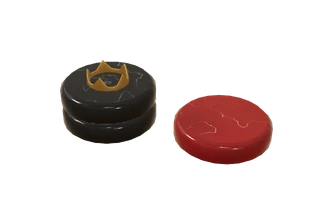
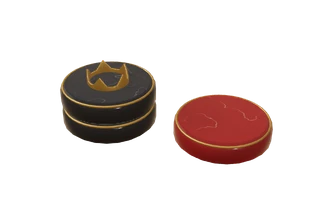
チェッカー3D：ルール説明の光るマスが奥の段で欠ける問題を修正、黒の大理石駒を少し明るくし真鍮の縁取り（黒マスで見やすく）、投了・引き分けの確認ボックスを白ベースに（全ゲームの大百科表示）
Claude-Session: https://claude.ai/code/session_01EiWRAXXs2Dq9W8exsfF5qf

diff --git a/atlas/models/checkers.js b/atlas/models/checkers.js
@@ -170,9 +170,9 @@
     tort: ['tort', { seed: 71 }],
     brass: ['brass', { seed: 83 }],
     // the marble discs' caps: bolder veins (a piece shows only a little of the sheet)
-    neroC: ['marble', { base: '#151517', vein: '#ece8e0', vein2: '#8a857c', cloud: '#26262a', seed: 17, s: .9, vw: .07, amt: .95, grain: 6 }],
-    calaC: ['marble', { base: '#f3f0ea', vein: '#7d766c', vein2: '#a99f92', cloud: '#e4dfd6', seed: 19, s: .9, vw: .06, amt: .9, grain: 5 }],
-    rossoC: ['marble', { base: '#9a2219', vein: '#f6e8e0', vein2: '#d07a6a', cloud: '#6a120c', seed: 23, s: .9, vw: .07, amt: .95, grain: 7 }],
+    neroC: ['marble', { base: '#2a2a2e', vein: '#d8d3ca', vein2: '#3a3a3e', cloud: '#38383d', seed: 17, s: .7, vw: .05, amt: .75, grain: 5 }],
+    calaC: ['marble', { base: '#f3f0ea', vein: '#8d867c', vein2: '#e8e3da', cloud: '#e4dfd6', seed: 19, s: .7, vw: .05, amt: .8, grain: 4 }],
+    rossoC: ['marble', { base: '#9a2219', vein: '#f0ddd4', vein2: '#a32a20', cloud: '#7a1810', seed: 23, s: .7, vw: .05, amt: .8, grain: 5 }],
     mahog: ['wood', { a: '#8e3a22', b: '#4a160c', seed: 19, rings: 22, ringAmt: .35, warp: 1.8, dir: 1, curl: .08, curlF: 30 }],
     green: ['leather', { a: '#1f4a35', b: '#0d2a1d', seed: 17 }],
     cream: ['leather', { a: '#efe3c6', b: '#cbb48a', seed: 23 }],
@@ -324,12 +324,13 @@
         for (let r = 0; r < 8; r++) for (let f = 0; f < 8; f++) if ((r + f) % 2 === 0) q.fillRect(o + f * k, o + r * k, k, k);
         const mt = new TT.CanvasTexture(mc); m.metalnessMap = m.roughnessMap = mt; m.metalness = 1; m.roughness = 1;
       }
-      Object.assign(m, { stencilWrite: true, stencilRef: 2, stencilFunc: TT.AlwaysStencilFunc, stencilZPass: TT.ReplaceStencilOp, polygonOffset: true, polygonOffsetFactor: -2, polygonOffsetUnits: -6 }); return m; });   // (polygon offset: in front of the core's top)
+      Object.assign(m, { stencilWrite: true, stencilRef: 2, stencilFunc: TT.AlwaysStencilFunc, stencilZPass: TT.ReplaceStencilOp }); return m; });   // (no polygon offset: it pushed the far squares in front of the marks drawn just above the field — the glow
+                       // was cut off on the far rows, 2026-11-14; the core's top sits a little lower instead)
     const F = FRAMES[L.frame]();
     // the core: a slab under the whole board
     const coreM = F.core != null ? mat('core' + F.core, () => phys({ color: F.core, roughness: .3, clearcoat: .6, clearcoatRoughness: .1 })) : F.m;
     const bt = look === 'lacquer' ? mat('burlTop', () => { const t = new TT.CanvasTexture(tile('burl', SZ(768))); t.encoding = TT.sRGBEncoding; t.anisotropy = 4; return phys({ map: t, color: 0x4a4a50, roughness: .16, clearcoat: 1, clearcoatRoughness: .04 }); }) : coreM;
-    const core = new TT.Mesh(new TT.BoxGeometry(OW - .02, HF, OW - .02), [coreM, coreM, bt, coreM, coreM, coreM]); core.position.y = HF / 2; core.castShadow = core.receiveShadow = true; base.add(core);
+    const core = new TT.Mesh(new TT.BoxGeometry(OW - .02, HF - .006, OW - .02), [coreM, coreM, bt, coreM, coreM, coreM]); core.position.y = (HF - .006) / 2; core.castShadow = core.receiveShadow = true; base.add(core);
     const A = OW / 2, fr = new TT.Mesh(sweep(A, profileOf(F.prof)), F.m); fr.castShadow = fr.receiveShadow = true; base.add(fr);
     if (F.bead) {   // a fine half-round bead along the frame's inner edge (brass / holly / gilt)
       const n = LO() ? 3 : 5, r = .022, x0 = IW - .045, bp = [[x0 - r, H2 - .001]]; for (let i = 1; i < n; i++) { const a = Math.PI - i / n * Math.PI; bp.push([x0 + Math.cos(a) * r, H2 + Math.sin(a) * r]); } bp.push([x0 + r, H2 - .001]);
@@ -389,15 +390,16 @@
   }
   function capGeo() { if (geos.cap) return geos.cap; const TT = T(), g = new TT.CircleGeometry(R - .045, LO() ? 16 : 24); g.rotateX(-Math.PI / 2); if (X.share) X.share(g); return (geos.cap = g); }
   function ringGeo() { if (geos.ring) return geos.ring; const TT = T(), g = new TT.RingGeometry(R * .5, R * .62, LO() ? 16 : 24); g.rotateX(-Math.PI / 2); if (X.share) X.share(g); return (geos.ring = g); }
+  function rimGeo() { if (geos.rim) return geos.rim; const TT = T(), g = new TT.TorusGeometry(R - .021, .0095, 6, LO() ? 24 : 40); g.rotateX(Math.PI / 2); if (X.share) X.share(g); return (geos.rim = g); }
   function bandGeo() { if (geos.band) return geos.band; const TT = T(), g = new TT.TorusGeometry(R + .002, .011, 5, LO() ? 18 : 26); g.rotateX(Math.PI / 2); if (X.share) X.share(g); return (geos.band = g); }
   // each set: [Black's side, White's side] materials, the crown's metal, the colour of the mirror image
   const PM = {
     metal: { g: () => phys({ color: 0xf0c25e, metalness: 1, roughness: .2, envMapIntensity: 1.4 }), w: () => phys({ color: 0xe6e8ec, metalness: 1, roughness: .16, envMapIntensity: 1.4 }), ref: [0xb88a3a, 0xa9adb3] },
     ebony: { g: () => phys({ color: 0x1c1512, roughness: .32, clearcoat: .7, clearcoatRoughness: .12 }), w: () => phys({ color: 0xeee2c6, roughness: .36, clearcoat: .5, clearcoatRoughness: .15 }), ref: [0x2a201a, 0xcfc2a4], inlay: true, crown: 0xd8b064 },
-    stone: { g: () => phys({ color: 0x1b1b1d, roughness: .12, clearcoat: 1, clearcoatRoughness: .04 }), w: () => phys({ color: 0xece8e1, roughness: .12, clearcoat: 1, clearcoatRoughness: .04 }), ref: [0x232325, 0xd4d0c8], cap: ['neroC', 'calaC'], crown: 0xd8b064 },
-    rbmarble: { g: () => phys({ color: 0x1b1b1d, roughness: .12, clearcoat: 1, clearcoatRoughness: .04 }), w: () => phys({ color: 0x8e1f19, roughness: .12, clearcoat: 1, clearcoatRoughness: .04 }), ref: [0x232325, 0x6e1a14], cap: ['neroC', 'rossoC'], crown: 0xd8b064 },
+    stone: { g: () => phys({ color: 0x26262a, roughness: .12, clearcoat: 1, clearcoatRoughness: .04 }), w: () => phys({ color: 0xece8e1, roughness: .12, clearcoat: 1, clearcoatRoughness: .04 }), ref: [0x232325, 0xd4d0c8], rim: true, cap: ['neroC', 'calaC'], crown: 0xd8b064 },
+    rbmarble: { g: () => phys({ color: 0x26262a, roughness: .12, clearcoat: 1, clearcoatRoughness: .04 }), w: () => phys({ color: 0x8e1f19, roughness: .12, clearcoat: 1, clearcoatRoughness: .04 }), ref: [0x232325, 0x6e1a14], rim: true, cap: ['neroC', 'rossoC'], crown: 0xd8b064 },
     urushi: { g: () => phys({ color: 0x121113, roughness: .16, clearcoat: 1, clearcoatRoughness: .03 }), w: () => phys({ color: 0xb2261c, roughness: .18, clearcoat: 1, clearcoatRoughness: .03 }), ref: [0x1a191b, 0x8a2016], band: true, crown: 0xe6bd62 },
-    rmarble: { g: () => phys({ color: 0x8e1f19, roughness: .12, clearcoat: 1, clearcoatRoughness: .04 }), w: () => phys({ color: 0xece8e1, roughness: .12, clearcoat: 1, clearcoatRoughness: .04 }), ref: [0x6e1a14, 0xd4d0c8], cap: ['rossoC', 'calaC'], crown: 0xd8b064 },
+    rmarble: { g: () => phys({ color: 0x8e1f19, roughness: .12, clearcoat: 1, clearcoatRoughness: .04 }), w: () => phys({ color: 0xece8e1, roughness: .12, clearcoat: 1, clearcoatRoughness: .04 }), ref: [0x6e1a14, 0xd4d0c8], rim: true, cap: ['rossoC', 'calaC'], crown: 0xd8b064 },
   };
   const setOf = s => SETS.includes(s) ? s : pcSet();
   const pMat = (set, col) => mat('p' + set + col, PM[set][col]);
@@ -417,6 +419,7 @@
       if (D.cap) { const c = add(capGeo(), capMat(set, col), y0 + PH + .001); c.rotation.y = k * 1.3 + (col === 'g' ? .4 : 2.1); c.castShadow = false; }
       if (D.inlay && k === n - 1) { const r = add(ringGeo(), pMat(set, col === 'g' ? 'w' : 'g'), y0 + PH - .0155); r.castShadow = false; }
       if (D.band) { const b = add(bandGeo(), metalMat('gold', 0xe6bd62, .2), y0 + PH * .5); b.castShadow = false; }
+      if (D.rim) { const b = add(rimGeo(), metalMat('brass', 0xd8b064, .22), y0 + PH - .021); b.castShadow = false; }   // (a brass ring round the top's edge: the black marble discs read on black squares, 2026-11-14)
     }
     if (king) add(crownGeo(), D.crown ? metalMat('crown' + D.crown, D.crown, .2) : m, n * (PH + .004) - .03 + (set === 'urushi' ? .02 : 0));
     g.userData = { col, king: !!king, h: n * PH, set };

diff --git a/atlas/lazy.js b/atlas/lazy.js
@@ -5,7 +5,7 @@
      AtlasLazy.has3D(id) / hasPlay(id) / hasRules(id) — known before loading; AtlasLazy.loaded(id) */
 (function () {
 'use strict';
-const G = {"reversi": ["games/reversi.js?v=53", "rules/reversi.js?v=14"], "shogi": ["models/shogi.js?v=101", "games/shogi-play.js?v=43", "games/shogi.js?v=16", "rules/shogi.js?v=21"], "chess": ["models/chess.js?v=16", "games/chess.js?v=18", "rules/chess.js?v=7"], "backgammon": ["models/backgammon.js?v=121", "games/backgammon.js?v=23", "rules/backgammon.js?v=11"], "gomoku": ["models/goban.js?v=15", "games/gomoku.js?v=15", "rules/gomoku.js?v=9"], "go": ["models/goban.js?v=15", "games/go.js?v=9", "rules/go.js?v=7"], "hex": ["models/goban.js?v=15", "models/hex.js?v=2", "games/hex.js?v=6", "rules/hex.js?v=6"], "tafl": ["games/tafl.js?v=15", "rules/tafl.js?v=7"], "xiangqi": ["models/xiangqi.js?v=4", "games/xiangqi.js?v=14", "rules/xiangqi.js?v=6"], "janggi": ["models/xiangqi.js?v=4", "models/janggi.js?v=3", "games/janggi.js?v=6", "rules/janggi.js?v=2"], "checkers": ["models/checkers.js?v=21", "games/checkers.js?v=11", "rules/checkers.js?v=6"], "ugolki": ["models/checkers.js?v=21", "models/ugolki.js?v=4", "games/ugolki.js?v=11", "rules/ugolki.js?v=8"], "morris": ["models/morris.js?v=7", "games/morris-pieces.js?v=2", "games/morris.js?v=8", "rules/morris.js?v=6"], "connect4": ["models/connect4.js?v=5", "games/connect4-tiles.js?v=1", "games/connect4.js?v=5", "rules/connect4.js?v=3"], "mancala": ["models/mancala.js?v=5", "games/mancala.js?v=10", "rules/mancala.js?v=4"], "dots": ["models/dots.js?v=4", "games/dots.js?v=9", "rules/dots.js?v=3"], "ur": ["models/ur-dice.js?v=2", "models/ur.js?v=5", "games/ur-kit.js?v=15", "games/ur.js?v=11", "rules/ur.js?v=16"], "fanorona": ["models/fanorona.js?v=4", "games/fanorona.js?v=6", "rules/fanorona.js?v=8"], "konane": ["models/konane.js?v=7", "games/konane.js?v=13", "rules/konane.js?v=5"], "amazons": ["models/amazons.js?v=7", "games/amazons.js?v=11", "rules/amazons.js?v=6"], "senet": ["models/ur-dice.js?v=2", "models/senet.js?v=10", "games/senet-kit.js?v=5", "games/senet.js?v=16", "rules/senet.js?v=8"], "agon": ["models/agon.js?v=4", "games/agon.js?v=12", "rules/agon.js?v=5"], "alquerque": ["models/alquerque.js?v=3", "rules/alquerque.js?v=6"], "ludo": ["../ludo/engine.js?v=3", "../ludo/house.js?v=7", "../ludo/board2d.js?v=7", "../ludo/board-art.js?v=3", "models/ludo.js?v=10", "games/ludo.js?v=28", "rules/ludo.js?v=3"], "carrom": ["../carrom/engine.js?v=7", "models/carrom.js?v=18", "games/carrom.js?v=38", "rules/carrom.js?v=8"], "crokinole": ["../carrom/engine.js?v=7", "games/carrom.js?v=38", "../crokinole/engine.js?v=4", "models/crokinole.js?v=13", "games/crokinole.js?v=15", "rules/crokinole.js?v=4"], "hockey": ["../hockey/engine.js?v=15", "models/hockey.js?v=8", "games/hockey.js?v=30", "rules/hockey.js?v=7"], "shanghai": ["games/shanghai-core.js?v=2", "games/shanghai-zodiac.js?v=6", "games/shanghai-i18n.js?v=12", "models/shanghai.js?v=18", "games/shanghai.js?v=28", "rules/shanghai-i18n.js?v=1", "rules/shanghai.js?v=1"], "peg": ["../peg/engine.js?v=2", "../peg/i18n.js?v=11", "models/peg.js?v=22", "games/peg.js?v=16", "rules/peg.js?v=4"]};
+const G = {"reversi": ["games/reversi.js?v=53", "rules/reversi.js?v=14"], "shogi": ["models/shogi.js?v=101", "games/shogi-play.js?v=43", "games/shogi.js?v=16", "rules/shogi.js?v=21"], "chess": ["models/chess.js?v=16", "games/chess.js?v=18", "rules/chess.js?v=7"], "backgammon": ["models/backgammon.js?v=121", "games/backgammon.js?v=23", "rules/backgammon.js?v=11"], "gomoku": ["models/goban.js?v=15", "games/gomoku.js?v=15", "rules/gomoku.js?v=9"], "go": ["models/goban.js?v=15", "games/go.js?v=9", "rules/go.js?v=7"], "hex": ["models/goban.js?v=15", "models/hex.js?v=2", "games/hex.js?v=6", "rules/hex.js?v=6"], "tafl": ["games/tafl.js?v=15", "rules/tafl.js?v=7"], "xiangqi": ["models/xiangqi.js?v=4", "games/xiangqi.js?v=14", "rules/xiangqi.js?v=6"], "janggi": ["models/xiangqi.js?v=4", "models/janggi.js?v=3", "games/janggi.js?v=6", "rules/janggi.js?v=2"], "checkers": ["models/checkers.js?v=22", "games/checkers.js?v=11", "rules/checkers.js?v=6"], "ugolki": ["models/checkers.js?v=22", "models/ugolki.js?v=4", "games/ugolki.js?v=11", "rules/ugolki.js?v=8"], "morris": ["models/morris.js?v=7", "games/morris-pieces.js?v=2", "games/morris.js?v=8", "rules/morris.js?v=6"], "connect4": ["models/connect4.js?v=5", "games/connect4-tiles.js?v=1", "games/connect4.js?v=5", "rules/connect4.js?v=3"], "mancala": ["models/mancala.js?v=5", "games/mancala.js?v=10", "rules/mancala.js?v=4"], "dots": ["models/dots.js?v=4", "games/dots.js?v=9", "rules/dots.js?v=3"], "ur": ["models/ur-dice.js?v=2", "models/ur.js?v=5", "games/ur-kit.js?v=15", "games/ur.js?v=11", "rules/ur.js?v=16"], "fanorona": ["models/fanorona.js?v=4", "games/fanorona.js?v=6", "rules/fanorona.js?v=8"], "konane": ["models/konane.js?v=7", "games/konane.js?v=13", "rules/konane.js?v=5"], "amazons": ["models/amazons.js?v=7", "games/amazons.js?v=11", "rules/amazons.js?v=6"], "senet": ["models/ur-dice.js?v=2", "models/senet.js?v=10", "games/senet-kit.js?v=5", "games/senet.js?v=16", "rules/senet.js?v=8"], "agon": ["models/agon.js?v=4", "games/agon.js?v=12", "rules/agon.js?v=5"], "alquerque": ["models/alquerque.js?v=3", "rules/alquerque.js?v=6"], "ludo": ["../ludo/engine.js?v=3", "../ludo/house.js?v=7", "../ludo/board2d.js?v=7", "../ludo/board-art.js?v=3", "models/ludo.js?v=10", "games/ludo.js?v=28", "rules/ludo.js?v=3"], "carrom": ["../carrom/engine.js?v=7", "models/carrom.js?v=18", "games/carrom.js?v=38", "rules/carrom.js?v=8"], "crokinole": ["../carrom/engine.js?v=7", "games/carrom.js?v=38", "../crokinole/engine.js?v=4", "models/crokinole.js?v=13", "games/crokinole.js?v=15", "rules/crokinole.js?v=4"], "hockey": ["../hockey/engine.js?v=15", "models/hockey.js?v=8", "games/hockey.js?v=30", "rules/hockey.js?v=7"], "shanghai": ["games/shanghai-core.js?v=2", "games/shanghai-zodiac.js?v=6", "games/shanghai-i18n.js?v=12", "models/shanghai.js?v=18", "games/shanghai.js?v=28", "rules/shanghai-i18n.js?v=1", "rules/shanghai.js?v=1"], "peg": ["../peg/engine.js?v=2", "../peg/i18n.js?v=11", "models/peg.js?v=22", "games/peg.js?v=16", "rules/peg.js?v=4"]};
 const F = {"reversi": {"t3": true, "play": true, "rules": true}, "shogi": {"t3": true, "play": true, "rules": true}, "chess": {"t3": true, "play": true, "rules": true}, "backgammon": {"t3": true, "play": true, "rules": true}, "gomoku": {"t3": true, "play": true, "rules": true}, "go": {"t3": true, "play": true, "rules": true}, "hex": {"t3": true, "play": true, "rules": true}, "tafl": {"t3": true, "play": true, "rules": true}, "xiangqi": {"t3": true, "play": true, "rules": true}, "janggi": {"t3": true, "play": true, "rules": true}, "checkers": {"t3": true, "play": true, "rules": true}, "ugolki": {"t3": true, "play": true, "rules": true}, "morris": {"t3": true, "play": true, "rules": true}, "connect4": {"t3": true, "play": true, "rules": true}, "mancala": {"t3": true, "play": true, "rules": true}, "dots": {"t3": true, "play": true, "rules": true}, "ur": {"t3": true, "play": true, "rules": true}, "fanorona": {"t3": true, "play": true, "rules": true}, "konane": {"t3": true, "play": true, "rules": true}, "amazons": {"t3": true, "play": true, "rules": true}, "senet": {"t3": true, "play": true, "rules": true}, "agon": {"t3": true, "play": true, "rules": true}, "alquerque": {"t3": true, "play": false, "rules": true}, "ludo": {"t3": true, "play": true, "rules": true}, "carrom": {"t3": true, "play": true, "rules": true}, "crokinole": {"t3": true, "play": true, "rules": true}, "hockey": {"t3": true, "play": true, "rules": true}, "peg": {"t3": true, "play": true, "rules": true}, "shanghai": {"t3": true, "play": true, "rules": true}};
 const done = new Set(), loading = new Map(), ok = new Set();
 function load(src) {

diff --git a/mancala/index.html b/mancala/index.html
@@ -1581,12 +1581,12 @@ html[data-sk=ocean] .seed{box-shadow:0 calc(var(--u) * .025) calc(var(--u) * .04
   if (!/[?&]skin=atlas\b/.test(location.search)) return;
   if (window.__ROTWRAP) { document.documentElement.classList.add('atlas-ready'); if (window.AtlasLoading) AtlasLoading.hide(); return; }   // phone landscape wrapper: the skin runs in the turned page inside
   document.documentElement.classList.add('atlas-skin');
-  const css = document.createElement('link'); css.rel = 'stylesheet'; css.href = '../atlas/skin/skin.css?v=90l83'; document.head.appendChild(css);
+  const css = document.createElement('link'); css.rel = 'stylesheet'; css.href = '../atlas/skin/skin.css?v=91l14'; document.head.appendChild(css);
   const css2 = document.createElement('link'); css2.rel = 'stylesheet'; css2.href = '../atlas/skin/mancala.css?v=19l14'; document.head.appendChild(css2);
   const f = document.createElement('link'); f.rel = 'stylesheet'; f.href = 'https://fonts.googleapis.com/css2?family=RocknRoll+One&family=Zen+Maru+Gothic:wght@500;700;900&family=Fredoka:wght@600;700&display=swap'; document.head.appendChild(f);
   const load = src => new Promise((res, rej) => { const s = document.createElement('script'); s.src = src; s.onload = res; s.onerror = rej; document.body.appendChild(s); });
   if (window.AtlasLoading) { AtlasLoading.show(); setTimeout(() => AtlasLoading.hide(), 12000); }   // safety net
-  (/[?&]three=128\b/.test(location.search) ? load('https://cdnjs.cloudflare.com/ajax/libs/three.js/r128/three.min.js') : load('../atlas/vendor/three-r186.min.js?v=1').then(() => load('../atlas/vendor/three-compat.js?v=15'))).then(() => load('../atlas/img/tex/baked.js?v=2')).then(() => load('../atlas/table3d.js?v=168')).then(() => load('../atlas/tables3d.js?v=121')).then(() => load('../atlas/skin/common.js?v=105')).then(() => load('../atlas/models/mancala.js?v=4l14')).then(() => load('../atlas/skin/mancala.js?v=10l14'))
+  (/[?&]three=128\b/.test(location.search) ? load('https://cdnjs.cloudflare.com/ajax/libs/three.js/r128/three.min.js') : load('../atlas/vendor/three-r186.min.js?v=1').then(() => load('../atlas/vendor/three-compat.js?v=15'))).then(() => load('../atlas/img/tex/baked.js?v=2')).then(() => load('../atlas/table3d.js?v=168')).then(() => load('../atlas/tables3d.js?v=122')).then(() => load('../atlas/skin/common.js?v=105')).then(() => load('../atlas/models/mancala.js?v=4l14')).then(() => load('../atlas/skin/mancala.js?v=10l14'))
     .catch(() => { document.documentElement.classList.remove('atlas-skin'); if (window.AtlasLoading) AtlasLoading.hide(); });
 })();
 </script>

diff --git a/dots/index.html b/dots/index.html
@@ -2295,12 +2295,12 @@ document.querySelector('#rsResume').onclick = () => { document.querySelector('#r
 (function () {
   if (!/[?&]skin=atlas\b/.test(location.search)) return;
   document.documentElement.classList.add('atlas-skin');
-  const css = document.createElement('link'); css.rel = 'stylesheet'; css.href = '../atlas/skin/skin.css?v=90l83'; document.head.appendChild(css);
+  const css = document.createElement('link'); css.rel = 'stylesheet'; css.href = '../atlas/skin/skin.css?v=91l14'; document.head.appendChild(css);
   const css2 = document.createElement('link'); css2.rel = 'stylesheet'; css2.href = '../atlas/skin/dots.css?v=2l14'; document.head.appendChild(css2);
   const f = document.createElement('link'); f.rel = 'stylesheet'; f.href = 'https://fonts.googleapis.com/css2?family=RocknRoll+One&family=Zen+Maru+Gothic:wght@500;700;900&family=Fredoka:wght@600;700&family=Kalam:wght@400;700&family=Zen+Kurenaido&family=Nanum+Pen+Script&family=Long+Cang&family=Aref+Ruqaa:wght@700&display=swap'; document.head.appendChild(f);   // (Kalam … Aref Ruqaa: the handwritten box initials and tally on the notebook page)
   const load = src => new Promise((res, rej) => { const s = document.createElement('script'); s.src = src; s.onload = res; s.onerror = rej; document.body.appendChild(s); });
   if (window.AtlasLoading) { AtlasLoading.show(); setTimeout(() => AtlasLoading.hide(), 12000); }   // safety net
-  (/[?&]three=128\b/.test(location.search) ? load('https://cdnjs.cloudflare.com/ajax/libs/three.js/r128/three.min.js') : load('../atlas/vendor/three-r186.min.js?v=1').then(() => load('../atlas/vendor/three-compat.js?v=15'))).then(() => load('../atlas/img/tex/baked.js?v=2')).then(() => load('../atlas/table3d.js?v=168')).then(() => load('../atlas/tables3d.js?v=121')).then(() => load('../atlas/skin/common.js?v=105')).then(() => load('../atlas/models/dots.js?v=3l14')).then(() => load('../atlas/skin/dots.js?v=7l14'))
+  (/[?&]three=128\b/.test(location.search) ? load('https://cdnjs.cloudflare.com/ajax/libs/three.js/r128/three.min.js') : load('../atlas/vendor/three-r186.min.js?v=1').then(() => load('../atlas/vendor/three-compat.js?v=15'))).then(() => load('../atlas/img/tex/baked.js?v=2')).then(() => load('../atlas/table3d.js?v=168')).then(() => load('../atlas/tables3d.js?v=122')).then(() => load('../atlas/skin/common.js?v=105')).then(() => load('../atlas/models/dots.js?v=3l14')).then(() => load('../atlas/skin/dots.js?v=7l14'))
     .catch(() => { document.documentElement.classList.remove('atlas-skin'); if (window.AtlasLoading) AtlasLoading.hide(); });
 })();
 </script>

diff --git a/reversi/index.html b/reversi/index.html
@@ -5915,13 +5915,13 @@ accRender();
 (function () {
   if (!/[?&]skin=atlas\b/.test(location.search)) return;
   document.documentElement.classList.add('atlas-skin');
-  const css = document.createElement('link'); css.rel = 'stylesheet'; css.href = '../atlas/skin/skin.css?v=90l83'; document.head.appendChild(css);
+  const css = document.createElement('link'); css.rel = 'stylesheet'; css.href = '../atlas/skin/skin.css?v=91l14'; document.head.appendChild(css);
   const f = document.createElement('link'); f.rel = 'stylesheet'; f.href = 'https://fonts.googleapis.com/css2?family=RocknRoll+One&family=Zen+Maru+Gothic:wght@500;700;900&family=Fredoka:wght@600;700&display=swap'; document.head.appendChild(f);
   const load = src => new Promise((res, rej) => { const s = document.createElement('script'); s.src = src; s.onload = res; s.onerror = rej; document.body.appendChild(s); });
   if (window.AtlasLoading) { AtlasLoading.show(); setTimeout(() => AtlasLoading.hide(), 12000); }   // safety net
   // three.js r186 trial (2026-11-13): ?three=186 loads the new version (+ the r128 compatibility layer); otherwise r128 as before
   const T186 = !/[?&]three=128\b/.test(location.search);   // (r186 by default since 2026-11-13; ?three=128 = the old version)
-  (T186 ? load('../atlas/vendor/three-r186.min.js?v=1').then(() => load('../atlas/vendor/three-compat.js?v=15')) : (/[?&]three=128\b/.test(location.search) ? load('https://cdnjs.cloudflare.com/ajax/libs/three.js/r128/three.min.js') : load('../atlas/vendor/three-r186.min.js?v=1').then(() => load('../atlas/vendor/three-compat.js?v=15')))).then(() => load('../atlas/img/tex/baked.js?v=2')).then(() => load('../atlas/table3d.js?v=168')).then(() => load('../atlas/tables3d.js?v=121')).then(() => load('../atlas/skin/common.js?v=105')).then(() => load('../atlas/skin/reversi.js?v=23l15'))
+  (T186 ? load('../atlas/vendor/three-r186.min.js?v=1').then(() => load('../atlas/vendor/three-compat.js?v=15')) : (/[?&]three=128\b/.test(location.search) ? load('https://cdnjs.cloudflare.com/ajax/libs/three.js/r128/three.min.js') : load('../atlas/vendor/three-r186.min.js?v=1').then(() => load('../atlas/vendor/three-compat.js?v=15')))).then(() => load('../atlas/img/tex/baked.js?v=2')).then(() => load('../atlas/table3d.js?v=168')).then(() => load('../atlas/tables3d.js?v=122')).then(() => load('../atlas/skin/common.js?v=105')).then(() => load('../atlas/skin/reversi.js?v=23l15'))
     .catch(() => { document.documentElement.classList.remove('atlas-skin'); if (window.AtlasLoading) AtlasLoading.hide(); });
 })();
 </script>

diff --git a/ur/index.html b/ur/index.html
@@ -1025,11 +1025,11 @@ html:not([lang=ja]):not([lang=zh]):not([lang="zh-TW"]):not([lang=ko]) .result-bi
 (function () {
   if (!/[?&]skin=atlas\b/.test(location.search) || window.__ROTWRAP) return;
   document.documentElement.classList.add('atlas-skin');
-  const css = document.createElement('link'); css.rel = 'stylesheet'; css.href = '../atlas/skin/skin.css?v=90l83'; document.head.appendChild(css);
+  const css = document.createElement('link'); css.rel = 'stylesheet'; css.href = '../atlas/skin/skin.css?v=91l14'; document.head.appendChild(css);
   const f = document.createElement('link'); f.rel = 'stylesheet'; f.href = 'https://fonts.googleapis.com/css2?family=RocknRoll+One&family=Zen+Maru+Gothic:wght@500;700;900&family=Fredoka:wght@600;700&display=swap'; document.head.appendChild(f);
   const load = src => new Promise((res, rej) => { const s = document.createElement('script'); s.src = src; s.onload = res; s.onerror = rej; document.body.appendChild(s); });
   if (window.AtlasLoading) { AtlasLoading.show(); setTimeout(() => AtlasLoading.hide(), 12000); }   // safety net
-  (/[?&]three=128\b/.test(location.search) ? load('https://cdnjs.cloudflare.com/ajax/libs/three.js/r128/three.min.js') : load('../atlas/vendor/three-r186.min.js?v=1').then(() => load('../atlas/vendor/three-compat.js?v=15'))).then(() => load('../atlas/img/tex/baked.js?v=2')).then(() => load('../atlas/table3d.js?v=168')).then(() => load('../atlas/tables3d.js?v=121')).then(() => load('../atlas/skin/common.js?v=105')).then(() => load('../atlas/models/ur-dice.js?v=2l14')).then(() => load('../atlas/models/ur.js?v=5l14')).then(() => load('../atlas/skin/ur.js?v=14l14'))
+  (/[?&]three=128\b/.test(location.search) ? load('https://cdnjs.cloudflare.com/ajax/libs/three.js/r128/three.min.js') : load('../atlas/vendor/three-r186.min.js?v=1').then(() => load('../atlas/vendor/three-compat.js?v=15'))).then(() => load('../atlas/img/tex/baked.js?v=2')).then(() => load('../atlas/table3d.js?v=168')).then(() => load('../atlas/tables3d.js?v=122')).then(() => load('../atlas/skin/common.js?v=105')).then(() => load('../atlas/models/ur-dice.js?v=2l14')).then(() => load('../atlas/models/ur.js?v=5l14')).then(() => load('../atlas/skin/ur.js?v=14l14'))
     .catch(() => { const u = new URL(location.href); u.searchParams.delete('skin'); location.replace(u.href); });   // (the 3D files are missing: the plain 2D page)
 })();
 </script>

diff --git a/connect4/index.html b/connect4/index.html
@@ -3387,11 +3387,11 @@ document.addEventListener('keydown', e => {
 (function () {
   if (!/[?&]skin=atlas\b/.test(location.search)) return;
   document.documentElement.classList.add('atlas-skin');
-  const css = document.createElement('link'); css.rel = 'stylesheet'; css.href = '../atlas/skin/skin.css?v=90l83'; document.head.appendChild(css);
+  const css = document.createElement('link'); css.rel = 'stylesheet'; css.href = '../atlas/skin/skin.css?v=91l14'; document.head.appendChild(css);
   const f = document.createElement('link'); f.rel = 'stylesheet'; f.href = 'https://fonts.googleapis.com/css2?family=RocknRoll+One&family=Zen+Maru+Gothic:wght@500;700;900&family=Fredoka:wght@600;700&display=swap'; document.head.appendChild(f);
   const load = src => new Promise((res, rej) => { const s = document.createElement('script'); s.src = src; s.onload = res; s.onerror = rej; document.body.appendChild(s); });
   if (window.AtlasLoading) { AtlasLoading.show(); setTimeout(() => AtlasLoading.hide(), 12000); }   // safety net
-  (/[?&]three=128\b/.test(location.search) ? load('https://cdnjs.cloudflare.com/ajax/libs/three.js/r128/three.min.js') : load('../atlas/vendor/three-r186.min.js?v=1').then(() => load('../atlas/vendor/three-compat.js?v=15'))).then(() => load('../atlas/img/tex/baked.js?v=2')).then(() => load('../atlas/table3d.js?v=168')).then(() => load('../atlas/tables3d.js?v=121')).then(() => load('../atlas/skin/common.js?v=105')).then(() => load('../atlas/models/connect4.js?v=5l14')).then(() => load('../atlas/games/connect4-tiles.js?v=1l14')).then(() => load('../atlas/skin/connect4.js?v=6l14-aim'))
+  (/[?&]three=128\b/.test(location.search) ? load('https://cdnjs.cloudflare.com/ajax/libs/three.js/r128/three.min.js') : load('../atlas/vendor/three-r186.min.js?v=1').then(() => load('../atlas/vendor/three-compat.js?v=15'))).then(() => load('../atlas/img/tex/baked.js?v=2')).then(() => load('../atlas/table3d.js?v=168')).then(() => load('../atlas/tables3d.js?v=122')).then(() => load('../atlas/skin/common.js?v=105')).then(() => load('../atlas/models/connect4.js?v=5l14')).then(() => load('../atlas/games/connect4-tiles.js?v=1l14')).then(() => load('../atlas/skin/connect4.js?v=6l14-aim'))
     .catch(() => { document.documentElement.classList.remove('atlas-skin'); if (window.AtlasLoading) AtlasLoading.hide(); });
 })();
 </script>

diff --git a/morris/index.html b/morris/index.html
@@ -3900,11 +3900,11 @@ window.addEventListener('resize', () => renderFx());
 (function () {
   if (!/[?&]skin=atlas\b/.test(location.search)) return;
   document.documentElement.classList.add('atlas-skin');
-  const css = document.createElement('link'); css.rel = 'stylesheet'; css.href = '../atlas/skin/skin.css?v=90l83'; document.head.appendChild(css);
+  const css = document.createElement('link'); css.rel = 'stylesheet'; css.href = '../atlas/skin/skin.css?v=91l14'; document.head.appendChild(css);
   const f = document.createElement('link'); f.rel = 'stylesheet'; f.href = 'https://fonts.googleapis.com/css2?family=RocknRoll+One&family=Zen+Maru+Gothic:wght@500;700;900&family=Fredoka:wght@600;700&display=swap'; document.head.appendChild(f);
   const load = src => new Promise((res, rej) => { const s = document.createElement('script'); s.src = src; s.onload = res; s.onerror = rej; document.body.appendChild(s); });
   if (window.AtlasLoading) { AtlasLoading.show(); setTimeout(() => AtlasLoading.hide(), 12000); }   // safety net
-  (/[?&]three=128\b/.test(location.search) ? load('https://cdnjs.cloudflare.com/ajax/libs/three.js/r128/three.min.js') : load('../atlas/vendor/three-r186.min.js?v=1').then(() => load('../atlas/vendor/three-compat.js?v=15'))).then(() => load('../atlas/img/tex/baked.js?v=2')).then(() => load('../atlas/table3d.js?v=168')).then(() => load('../atlas/tables3d.js?v=121')).then(() => load('../atlas/skin/common.js?v=105')).then(() => load('../atlas/models/morris.js?v=6l14')).then(() => load('../atlas/games/morris-pieces.js?v=2l14')).then(() => load('../atlas/skin/morris.js?v=6l15'))
+  (/[?&]three=128\b/.test(location.search) ? load('https://cdnjs.cloudflare.com/ajax/libs/three.js/r128/three.min.js') : load('../atlas/vendor/three-r186.min.js?v=1').then(() => load('../atlas/vendor/three-compat.js?v=15'))).then(() => load('../atlas/img/tex/baked.js?v=2')).then(() => load('../atlas/table3d.js?v=168')).then(() => load('../atlas/tables3d.js?v=122')).then(() => load('../atlas/skin/common.js?v=105')).then(() => load('../atlas/models/morris.js?v=6l14')).then(() => load('../atlas/games/morris-pieces.js?v=2l14')).then(() => load('../atlas/skin/morris.js?v=6l15'))
     .catch(() => { document.documentElement.classList.remove('atlas-skin'); if (window.AtlasLoading) AtlasLoading.hide(); });
 })();
 </script>

diff --git a/atlas/index.html b/atlas/index.html
@@ -2250,7 +2250,7 @@ else document.write('<script src="https://cdnjs.cloudflare.com/ajax/libs/three.j
 <script>/* the places other than the chabudai (tables3d.js, 440 KB): at once when one is chosen, else in idle time after the page has
    loaded (2026-11-10); 'atlas-places' tells the page they are there */
 (function () {
-  var SRC = 'tables3d.js?v=121', k = 0, p = null;
+  var SRC = 'tables3d.js?v=122', k = 0, p = null;
   try { k = +(localStorage.getItem('atlas-table') || 0) || 0; var m = /[?&]tbl=(\d+)/.exec(location.search); if (m) k = +m[1]; } catch (e) {}
   window.AtlasPlaces = function () { return p || (p = new Promise(function (res) { var s = document.createElement('script'); s.src = SRC; s.onload = s.onerror = function () { res(); try { dispatchEvent(new Event('atlas-places')); } catch (e) {} }; document.head.appendChild(s); })); };
   if (k) { document.write('<script src="' + SRC + '"><\/script>'); p = Promise.resolve(); }
@@ -2270,7 +2270,7 @@ window.AtlasRgdTimer = function (btn, ms, alive) {
   }, 60);
 };</script>
 <script src="../shared/tapword.js?v=1"></script>
-<script src="lazy.js?v=262"></script>
+<script src="lazy.js?v=263"></script>
 <script src="puzzle-lines.js?v=1"></script>
 <script src="puzzles.js?v=28"></script>
 <script src="lessons3d.js?v=37"></script>
@@ -2280,6 +2280,11 @@ window.AtlasRgdTimer = function (btn, ms, alive) {
 <link rel="stylesheet" href="skin/loading.css?v=2">
 <script src="skin/loading.js?v=5"></script>
 <script src="gacha3d.js?v=7"></script>
+<style>/* the resign / draw confirmation (shared/resign.js): a white box like the portal's other boxes (2026-11-14) */
+.rsg-box{background:#fffdf7!important;color:#2b3044!important;border:2px solid #ead9b6!important;box-shadow:0 6px 0 #efe3c8,0 24px 60px rgba(0,0,0,.35)!important}
+.rsg-q{color:#2b3044!important}.rsg-sub{color:#6a7088!important}.rsg-flag{background:rgba(255,107,91,.12)!important;color:#e5533f!important}
+.rsg-btns button:not(.yes){background:#fff!important;color:#2b3044!important;border:2px solid #ead9b6!important;box-shadow:0 3px 0 #efe3c8}
+.rsg-ov.draw .rsg-flag{color:#b8862a!important}</style>
 <script src="../shared/resign.js?v=3"></script><script src="../shared/drawoffer.js?v=1"></script>
 <script src="../shared/tick.js?v=2"></script>
 <script src="gamelist.js?v=37"></script>

diff --git a/senet/index.html b/senet/index.html
@@ -1026,11 +1026,11 @@ html:not([lang=ja]):not([lang=zh]):not([lang=zh-TW]):not([lang=ko]) .result-big{
 (function () {
   if (!/[?&]skin=atlas\b/.test(location.search) || window.__ROTWRAP) return;
   document.documentElement.classList.add('atlas-skin');
-  const css = document.createElement('link'); css.rel = 'stylesheet'; css.href = '../atlas/skin/skin.css?v=90l83'; document.head.appendChild(css);
+  const css = document.createElement('link'); css.rel = 'stylesheet'; css.href = '../atlas/skin/skin.css?v=91l14'; document.head.appendChild(css);
   const f = document.createElement('link'); f.rel = 'stylesheet'; f.href = 'https://fonts.googleapis.com/css2?family=RocknRoll+One&family=Zen+Maru+Gothic:wght@500;700;900&family=Fredoka:wght@600;700&display=swap'; document.head.appendChild(f);
   const load = src => new Promise((res, rej) => { const s = document.createElement('script'); s.src = src; s.onload = res; s.onerror = rej; document.body.appendChild(s); });
   if (window.AtlasLoading) { AtlasLoading.show(); setTimeout(() => AtlasLoading.hide(), 12000); }   // safety net
-  (/[?&]three=128\b/.test(location.search) ? load('https://cdnjs.cloudflare.com/ajax/libs/three.js/r128/three.min.js') : load('../atlas/vendor/three-r186.min.js?v=1').then(() => load('../atlas/vendor/three-compat.js?v=15'))).then(() => load('../atlas/img/tex/baked.js?v=2')).then(() => load('../atlas/table3d.js?v=168')).then(() => load('../atlas/tables3d.js?v=121')).then(() => load('../atlas/skin/common.js?v=105')).then(() => load('../atlas/models/senet.js?v=10l14')).then(() => load('../atlas/skin/senet.js?v=10l14'))
+  (/[?&]three=128\b/.test(location.search) ? load('https://cdnjs.cloudflare.com/ajax/libs/three.js/r128/three.min.js') : load('../atlas/vendor/three-r186.min.js?v=1').then(() => load('../atlas/vendor/three-compat.js?v=15'))).then(() => load('../atlas/img/tex/baked.js?v=2')).then(() => load('../atlas/table3d.js?v=168')).then(() => load('../atlas/tables3d.js?v=122')).then(() => load('../atlas/skin/common.js?v=105')).then(() => load('../atlas/models/senet.js?v=10l14')).then(() => load('../atlas/skin/senet.js?v=10l14'))
     .catch(() => { const u = new URL(location.href); u.searchParams.delete('skin'); location.replace(u.href); });   // (the 3D files are missing: the plain 2D page)
 })();
 </script>

diff --git a/fanorona/index.html b/fanorona/index.html
@@ -1683,11 +1683,11 @@ body.lt-on .reserve .onb.on{border-color:var(--accent);box-shadow:0 0 0 1px var(
 (function () {
   if (!/[?&]skin=atlas\b/.test(location.search) || window.__ROTWRAP) return;
   document.documentElement.classList.add('atlas-skin');
-  const css = document.createElement('link'); css.rel = 'stylesheet'; css.href = '../atlas/skin/skin.css?v=90l83'; document.head.appendChild(css);
+  const css = document.createElement('link'); css.rel = 'stylesheet'; css.href = '../atlas/skin/skin.css?v=91l14'; document.head.appendChild(css);
   const f = document.createElement('link'); f.rel = 'stylesheet'; f.href = 'https://fonts.googleapis.com/css2?family=RocknRoll+One&family=Zen+Maru+Gothic:wght@500;700;900&family=Fredoka:wght@600;700&display=swap'; document.head.appendChild(f);
   const load = src => new Promise((res, rej) => { const s = document.createElement('script'); s.src = src; s.onload = res; s.onerror = rej; document.body.appendChild(s); });
   if (window.AtlasLoading) { AtlasLoading.show(); setTimeout(() => AtlasLoading.hide(), 12000); }   // safety net
-  (/[?&]three=128\b/.test(location.search) ? load('https://cdnjs.cloudflare.com/ajax/libs/three.js/r128/three.min.js') : load('../atlas/vendor/three-r186.min.js?v=1').then(() => load('../atlas/vendor/three-compat.js?v=15'))).then(() => load('../atlas/img/tex/baked.js?v=2')).then(() => load('../atlas/table3d.js?v=168')).then(() => load('../atlas/tables3d.js?v=121')).then(() => load('../atlas/skin/common.js?v=105')).then(() => load('../atlas/models/fanorona.js?v=3l14')).then(() => load('../atlas/skin/fanorona.js?v=6l14'))
+  (/[?&]three=128\b/.test(location.search) ? load('https://cdnjs.cloudflare.com/ajax/libs/three.js/r128/three.min.js') : load('../atlas/vendor/three-r186.min.js?v=1').then(() => load('../atlas/vendor/three-compat.js?v=15'))).then(() => load('../atlas/img/tex/baked.js?v=2')).then(() => load('../atlas/table3d.js?v=168')).then(() => load('../atlas/tables3d.js?v=122')).then(() => load('../atlas/skin/common.js?v=105')).then(() => load('../atlas/models/fanorona.js?v=3l14')).then(() => load('../atlas/skin/fanorona.js?v=6l14'))
     .catch(() => { document.documentElement.classList.remove('atlas-skin'); if (window.AtlasLoading) AtlasLoading.hide(); });
 })();
 </script>

diff --git a/alquerque/index.html b/alquerque/index.html
@@ -1685,11 +1685,11 @@ window.OL_VARIANTS = ['alq', 'alqf']; window.OL_DB_PREFIX = 'alq/';
 (function () {
   if (!/[?&]skin=atlas\b/.test(location.search) || window.__ROTWRAP) return;
   document.documentElement.classList.add('atlas-skin');
-  const css = document.createElement('link'); css.rel = 'stylesheet'; css.href = '../atlas/skin/skin.css?v=90l83'; document.head.appendChild(css);
+  const css = document.createElement('link'); css.rel = 'stylesheet'; css.href = '../atlas/skin/skin.css?v=91l14'; document.head.appendChild(css);
   const f = document.createElement('link'); f.rel = 'stylesheet'; f.href = 'https://fonts.googleapis.com/css2?family=RocknRoll+One&family=Zen+Maru+Gothic:wght@500;700;900&family=Fredoka:wght@600;700&display=swap'; document.head.appendChild(f);
   const load = src => new Promise((res, rej) => { const s = document.createElement('script'); s.src = src; s.onload = res; s.onerror = rej; document.body.appendChild(s); });
   if (window.AtlasLoading) { AtlasLoading.show(); setTimeout(() => AtlasLoading.hide(), 12000); }   // safety net
-  (/[?&]three=128\b/.test(location.search) ? load('https://cdnjs.cloudflare.com/ajax/libs/three.js/r128/three.min.js') : load('../atlas/vendor/three-r186.min.js?v=1').then(() => load('../atlas/vendor/three-compat.js?v=15'))).then(() => load('../atlas/img/tex/baked.js?v=2')).then(() => load('../atlas/table3d.js?v=168')).then(() => load('../atlas/tables3d.js?v=121')).then(() => load('../atlas/skin/common.js?v=105')).then(() => load('../atlas/models/alquerque.js?v=3l14')).then(() => load('../atlas/skin/fanorona.js?v=6l14'))
+  (/[?&]three=128\b/.test(location.search) ? load('https://cdnjs.cloudflare.com/ajax/libs/three.js/r128/three.min.js') : load('../atlas/vendor/three-r186.min.js?v=1').then(() => load('../atlas/vendor/three-compat.js?v=15'))).then(() => load('../atlas/img/tex/baked.js?v=2')).then(() => load('../atlas/table3d.js?v=168')).then(() => load('../atlas/tables3d.js?v=122')).then(() => load('../atlas/skin/common.js?v=105')).then(() => load('../atlas/models/alquerque.js?v=3l14')).then(() => load('../atlas/skin/fanorona.js?v=6l14'))
     .catch(() => { document.documentElement.classList.remove('atlas-skin'); if (window.AtlasLoading) AtlasLoading.hide(); });
 })();
 </script>
